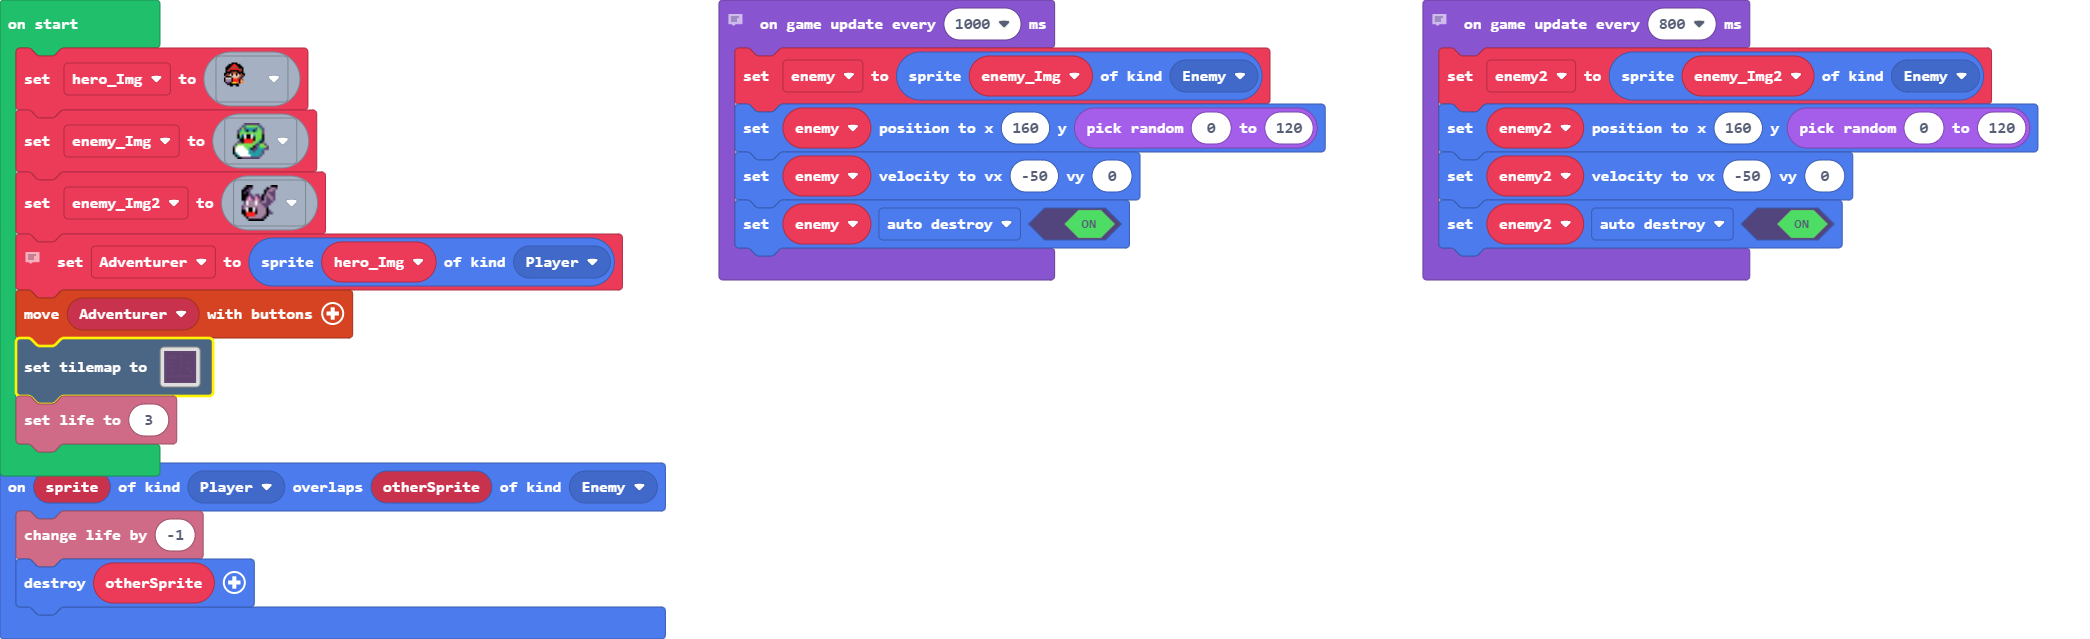
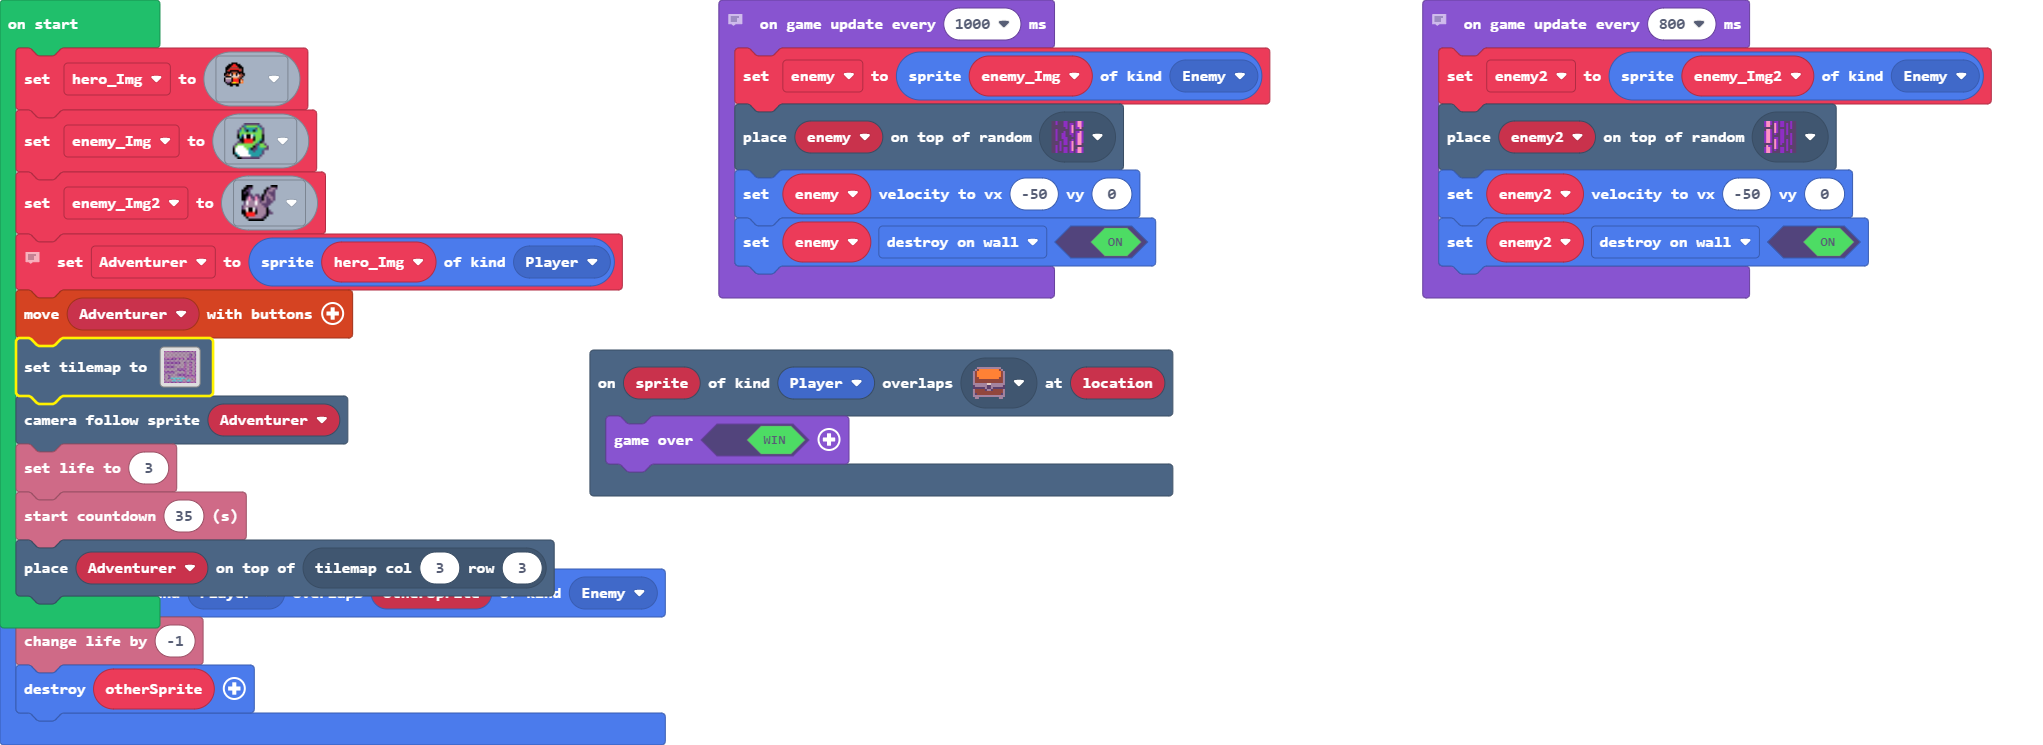
Update main.blocks, main.ts, tilemap.g.jres, tilemap.g.ts

diff --git a/tilemap.g.ts b/tilemap.g.ts
@@ -3,5 +3,63 @@ namespace myTiles {
     //% fixedInstance jres blockIdentity=images._tile
     export const transparency16 = image.ofBuffer(hex``);
 
+    helpers.registerTilemapFactory(function(name: string) {
+        switch(helpers.stringTrim(name)) {
[1 lines of base64/hex data omitted]
+222222222222222222222222
+2.....2................2
+2..................22..2
+2..................22..2
+2.....2............22..2
+222222222222222..2222222
+2222222................2
+2......................2
+222222222222...22..22..2
+222222222222...22..22..2
+2..............22..22..2
+2..............22..22..2
+2..............22..22..2
+2..............22..22..2
+2..............22..22..2
+2..............22..22..2
+2..............22..22..2
+2..............22..22..2
+2..............222222222
+2..............222222222
+2......................2
+2......................2
+2......................2
+222222222222222222222222
+`, [myTiles.transparency16,sprites.dungeon.floorDarkDiamond,sprites.dungeon.purpleOuterSouthWest,sprites.dungeon.purpleOuterSouth1,sprites.dungeon.purpleOuterNorthWest,sprites.dungeon.purpleOuterSouthEast,sprites.dungeon.purpleOuterWest1,sprites.dungeon.purpleOuterNorth1,sprites.dungeon.purpleOuterNorthEast,sprites.dungeon.purpleOuterEast0,sprites.dungeon.stairEast,sprites.dungeon.floorDark2,sprites.dungeon.purpleOuterWest0,sprites.dungeon.stairNorth,sprites.dungeon.purpleOuterNorth2,sprites.dungeon.purpleOuterSouth2,sprites.dungeon.purpleOuterEast2,sprites.dungeon.purpleOuterWest2,sprites.dungeon.purpleOuterSouth0,sprites.dungeon.purpleInnerNorthEast,sprites.dungeon.purpleInnerSouthWest,sprites.dungeon.purpleInnerSouthEast,sprites.dungeon.purpleInnerNorthWest,sprites.dungeon.chestClosed], TileScale.Sixteen)
[1 lines of base64/hex data omitted]
+222222222222222222222222
+2.....2................2
+2..................22..2
+2..................22..2
+2.....2............22..2
+222222222222222..2222222
+222222222..2..2..2222222
+2......................2
+222222222222...22..22..2
+222222222222...22..22..2
+2..............22..22..2
+22222222.......22..22..2
+22222222.......22..22..2
+2.........2222222..22..2
+2.........2222222..22..2
+22222222.......22..22..2
+22222222.......22..22..2
+2.........2222222..22..2
+2..22.....22222222222..2
+2..22..........222222..2
+2..2222222222222.......2
+2.................2....2
+2.....222..222...222...2
+222222222222222222222222
+`, [myTiles.transparency16,sprites.dungeon.floorDarkDiamond,sprites.dungeon.purpleOuterSouthWest,sprites.dungeon.purpleOuterSouth1,sprites.dungeon.purpleOuterNorthWest,sprites.dungeon.purpleOuterSouthEast,sprites.dungeon.purpleOuterWest1,sprites.dungeon.purpleOuterNorth1,sprites.dungeon.purpleOuterNorthEast,sprites.dungeon.purpleOuterEast0,sprites.dungeon.stairEast,sprites.dungeon.floorDark2,sprites.dungeon.purpleOuterWest0,sprites.dungeon.stairNorth,sprites.dungeon.purpleOuterNorth2,sprites.dungeon.purpleOuterSouth2,sprites.dungeon.purpleOuterEast2,sprites.dungeon.purpleOuterWest2,sprites.dungeon.purpleOuterSouth0,sprites.dungeon.purpleInnerNorthEast,sprites.dungeon.purpleInnerSouthWest,sprites.dungeon.purpleInnerSouthEast,sprites.dungeon.purpleInnerNorthWest,sprites.dungeon.chestClosed,sprites.dungeon.collectibleInsignia], TileScale.Sixteen)
+        }
+        return null;
+    })
+
 }
 // Auto-generated code. Do not edit.

diff --git a/main.ts b/main.ts
@@ -1,3 +1,6 @@
+scene.onOverlapTile(SpriteKind.Player, sprites.dungeon.chestClosed, function (sprite, location) {
+    game.over(true)
+})
 sprites.onOverlap(SpriteKind.Player, SpriteKind.Enemy, function (sprite, otherSprite) {
     info.changeLifeBy(-1)
     otherSprite.destroy()
@@ -10,36 +13,22 @@ let enemy_Img2 = sprites.builtin.forestBat4
 // Create Adventurer
 let Adventurer = sprites.create(hero_Img, SpriteKind.Player)
 controller.moveSprite(Adventurer)
-tiles.setTilemap(tiles.createTilemap(hex`1000100008060606060606060606060606060605070909090909090909090909090909040706060606060606070909090909090407010101010109090709090909090904070909090909090907090909090909040701010109090909070909070409090407090909090909090709090704090904070909010909090907090909090909040709090909090909070909070409090407090904090909060909090704090904070909010909090909090909090509040709090909090906090909090904090407090901010101010101010101030904070909090909090909090909090909040709090909090909090909090909090402010101010101010101010101010103`, img`
-    2 . . . . . . . . . . . . . . . 
-    2 . . . . . . . . . . . . . . . 
-    2 . . . . . . . . . . . . . . . 
-    2 . . . . . . . . . . . . . . . 
-    2 . . . . . . . . . . . . . . . 
-    2 . . . . . . . . . . . . . . . 
-    2 . . . . . . . . . . . . . . . 
-    2 . . . . . . . . . . . . . . . 
-    2 . . . . . . . . . . . . . . . 
-    2 . . . . . . . . . . . . . . . 
-    2 . . . . . . . . . . . . . . . 
-    2 . . . . . . . . . . . . . . . 
-    2 . . . . . . . . . . . . . . . 
-    2 . . . . . . . . . . . . . . . 
-    2 . . . . . . . . . . . . . . . 
-    2 . . . . . . . . . . . . . . . 
-    `, [myTiles.transparency16,sprites.dungeon.darkGroundSouth,sprites.dungeon.darkGroundSouthWest0,sprites.dungeon.darkGroundSouthEast0,sprites.dungeon.darkGroundEast,sprites.dungeon.darkGroundNorthEast0,sprites.dungeon.darkGroundNorth,sprites.dungeon.darkGroundWest,sprites.dungeon.darkGroundNorthWest0,sprites.dungeon.darkGroundCenter], TileScale.Sixteen))
+tiles.setTilemap(tilemap`level_0`)
+scene.cameraFollowSprite(Adventurer)
 info.setLife(3)
+info.startCountdown(35)
+tiles.placeOnTile(Adventurer, tiles.getTileLocation(3, 3))
 // enemy spawn
 game.onUpdateInterval(1000, function () {
     enemy = sprites.create(enemy_Img, SpriteKind.Enemy)
-    enemy.setPosition(160, randint(0, 120))
+    tiles.placeOnRandomTile(enemy, sprites.dungeon.purpleOuterEast0)
     enemy.setVelocity(-50, 0)
-    enemy.setFlag(SpriteFlag.AutoDestroy, true)
+    enemy.setFlag(SpriteFlag.DestroyOnWall, true)
 })
 // enemy spawn
 game.onUpdateInterval(800, function () {
     enemy2 = sprites.create(enemy_Img2, SpriteKind.Enemy)
-    enemy2.setPosition(160, randint(0, 120))
+    tiles.placeOnRandomTile(enemy2, sprites.dungeon.purpleOuterWest0)
     enemy2.setVelocity(-50, 0)
-    enemy2.setFlag(SpriteFlag.AutoDestroy, true)
+    enemy2.setFlag(SpriteFlag.DestroyOnWall, true)
 })
